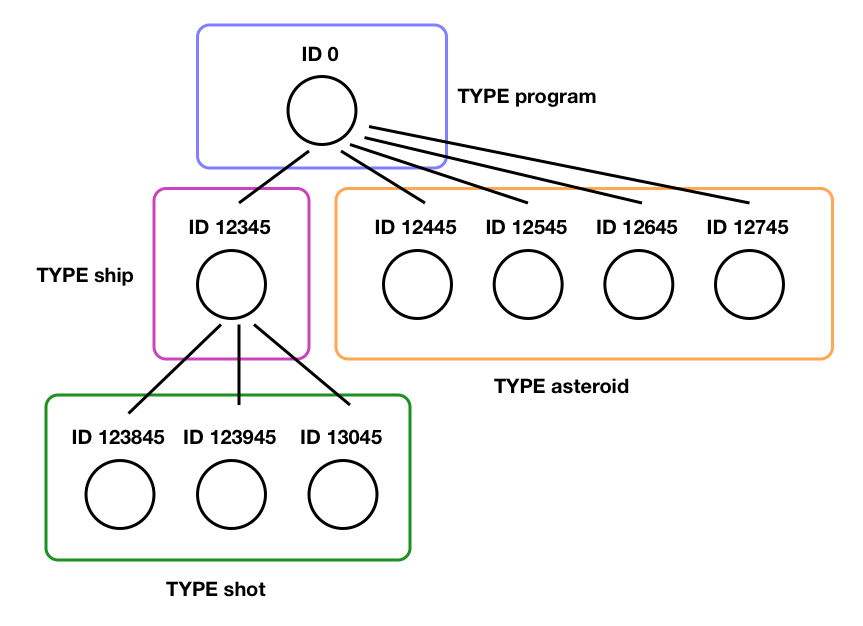
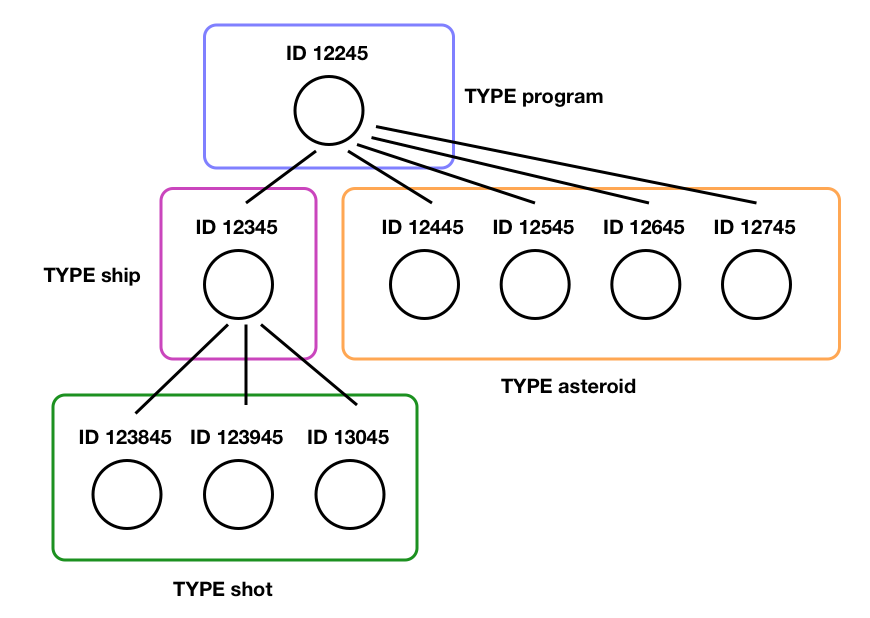
Added almost all memory model

diff --git a/div2js/index.html b/div2js/index.html
@@ -46,8 +46,7 @@
           1. How does DIV work?
           2. The execution model
           3. The memory model
-          4. Integration tests
-          5. What's next?
+          4. The execution pipeline
         </section>
 
         <section>
@@ -153,9 +152,6 @@
             memory[ANGLE + 1] = 90000; // Pointer aritmethic!
             ```
           </section>
-
-        </section>
-
         </section>
 
         <section>
@@ -219,11 +215,11 @@
 
             ```js
             function runProcessList() {
-              let result;
+              let retValue;
               while (processList.length) {
                 for (let i = 0, current; current = processList[i]; i++) {
-                  const action = current.next(result); // run until yield.
-                  result = handle(action, current.mem);
+                  const result = current.next(retValue); // run until yield.
+                  retValue = handle(result, current.mem);
                 };
                 drawFrame();
               }
@@ -237,7 +233,7 @@
           </section>
 
           <section data-markdown>
-            `result` is sent to the process since some statements can return values (i.e. _calling a process returns its ID_).
+            `retValue` is sent to the process since some statements can return values (i.e. _calling a process returns its ID_).
           </section>
 
           <section data-markdown>
@@ -361,13 +357,285 @@
             }
             ```
           </section>
+
+          <section data-markdown>
+            ### DEBUGGING
+          </section>
+
+          <section data-markdown>
+            You migh be wondering **why so many yields**?
+          </section>
+
+          <section data-markdown>
+            Is it necessary to yield on **every** call?
+          </section>
+
+          <section>
+            <p>It is.</p>
+            <p class="fragment">(<a href="https://github.com/delapuente/div2js/commit/13042a266614c95e37231f0eea2701f8d14495df">if you want to debug it</a>)</p>
+          </section>
+
+          <section data-markdwon>
+            Because you need to return to the scheduler to have the opportunity of launching the debugger.
+          </section>
         </section>
 
-        <section data-markdown>
-          ## Markdown!
+        <section>
+          <section data-markdown>
+            ## The memory model
+          </section>
 
-          And remember you can use [markdown](https://github.com/hakimel/reveal.js#markdown)
-          with `data-markdown`.
+          <section data-markdown>
+            Each process has a _reserved_ memory region.
+          </section>
+
+          <section data-markdown>
+            ![Local data](./imgs/div2-local-data.png)
+          </section>
+
+          <section>
+            <p>Implementation goal:</p>
+            <p class="fragment"><strong>Preserve pointer semantics <em>across</em> regions.</strong></p>
+          </section>
+
+          <section data-markdown>
+            ### Process size
+          </section>
+
+          <section data-markdown>
+            Kind reminder:
+          </section>
+
+          <section data-markdown>
+            Memory is a `Int32Array`
+            ```
+            const mem = new Int32Array(PROCESS_SIZE);
+            ```
+          </section>
+
+          <section data-markdown>
+            So, first question, what is `PROCESS_SIZE`?
+          </section>
+
+          <section data-markdown>
+            Hypothesis: _with no privates, size of the process is size of locals_.
+          </section>
+
+          <section data-background-image="./imgs/id-is-offset.jpeg">
+          </section>
+
+          <section data-markdown>
+            Gut feeling: _`ID` is the address of the process_.
+          </section>
+
+          <section data-markdown>
+            According to the debugger, there are **44 locals**.
+          </section>
+
+          <section data-markdown>
+            ```div
+            PROGRAM calc_process_size;
+            BEGIN
+              p();
+              p();
+              DEBUG;
+            END
+
+            PROCESS p();
+            BEGIN
+              LOOP FRAME; END
+            END
+            ```
+          </section>
+
+          <section data-markdown>
+            ![Substracting one process ID fron another, you have the process size](./imgs/div2-process-size.png)
+          </section>
+
+          <section>
+            <p>
+              1751 - 1707 = <strong>44</strong>; 1795 - 1751 = <strong>44</strong>
+            </p>
+            <p class="fragment">Fair enough.</p>
+          </section>
+
+          <section data-markdown>
+            Hypothesis: _with privates, size of the process is size of locals + privates_.
+          </section>
+
+          <section data-markdown>
+            ```div
+            PROGRAM calc_process_size;
+            BEGIN
+              p();
+              q();
+              DEBUG;
+            END
+
+            PROCESS p();
+            PRIVATE
+              a;
+            BEGIN
+              LOOP FRAME; END
+            END
+
+            PROCESS q();
+            PRIVATE
+              a;
+              b;
+            BEGIN
+              LOOP FRAME; END
+            END
+            ```
+          </section>
+
+          <section data-markdown>
+            ![Size is constant](./imgs/div2-constant-size.png)
+          </section>
+
+          <section>
+            <p>
+              1769 - 1723 = <strong>46</strong>; 1815 - 1769 = <strong>46</strong>
+            </p>
+            <p class="fragment">WTF?</p>
+          </section>
+
+          <section data-markdown>
+            So, DIV has a fixed process size, which is the sum of local segment and the biggest private region.
+          </section>
+
+          <section data-markdown>
+            ![Process memory region](./imgs/memory-segment.png)
+
+            Regions include enough space for _locals_ and _private_ variables.
+          </section>
+
+          <section data-markdown>
+            In addition to a fixed number of process, the design leads to:
+            * Fixed program footprint.
+            * Very fast process allocation.
+          </section>
+
+          <section data-markdown>
+            ### Memory map
+          </section>
+
+          <section data-markdown>
+            Variable names will be array indices
+            ```
+            mem[X] = 10; // x = 10
+            mem[Y] = 10; // y = 10
+            ```
+          </section>
+
+          <section data-markdown>
+            So, second question is, where is the data inside these regions?
+          </section>
+
+          <section data-markdown>
+            What is the first variable?
+
+            ```div
+            PROGRAM memory_map;
+            PRIVATE
+              pid;
+            BEGIN
+              pid = p();
+              (*pid) = 1234567890;
+              DEBUG;
+            END
+
+            PROCESS p();
+            BEGIN
+              LOOP FRAME; END
+            END
+            ```
+          </section>
+
+          <section data-markdown>
+            ![First local is process id](./imgs/div2-first-local.png)
+          </section>
+
+          <section data-markdown>
+            Where are the other?
+
+            ```div
+            PROGRAM memory_offsets;
+            PRIVATE
+              target;
+              result;
+            BEGIN
+              target = &amp;reserved.id_scan;
+              result = target - ID;
+              write_int(0, 0, 0, 0, &amp;result);
+              LOOP FRAME; END
+            END
+            ```
+          </section>
+
+          <section data-markdown>
+            ![id_scan offset is 1](./imgs/div2-memory-locations.png)
+          </section>
+
+          <section data-markdown>
+            Double check privates come after locals.
+
+            ```div
+            PROGRAM segment_order;
+            PRIVATE
+              a;
+            BEGIN
+              *(ID + 44) = 1234567890;
+              DEBUG;
+            END
+            ```
+          </section>
+
+          <section data-markdown>
+            ![Privates goes after locals](./imgs/div2-segment-order.png)
+          </section>
+
+          <section data-markdown>
+            ### Pointer arithmetic
+          </section>
+
+          <section data-markdown>
+            Pointer airthmetic goes in between the brackets
+            ```js
+            mem[X] = mem[MOUSE_STRUCT + MOUSE_X]; // x = mouse.x
+            ```
+          </section>
+
+          <section data-markdown>
+            ### Globals and text segments
+          </section>
+
+          <section data-markdown>
+            Is it possible to achieve total pointer compatibility?
+          </section>
+
+          <section data-markdown>
+            Yes, if processes receive **all the memory**.
+          </section>
+
+          <section data-markdown>
+            Fortunately, source is now on GitHub so [figuring
+            out global memory](https://github.com/DIVGAMES/DIV-Games-Studio/blob/0c006cca548f9d6dc66d174d4f05d167148c7e78/dll/div.h) map was much easier.
+          </section>
+
+          <section>
+            <ul>
+              <li>So, where the globals are?</li>
+              <li class="fragment">And the text of the program?</li>
+              <li class="fragment">Are there gaps in between?</li>
+            </ul>
+          </section>
+        </section>
+
+        <section>
+          <section data-markdown>
+            ## The Execution Pipeline
+          </section>
         </section>
       </div>
 		</div>
